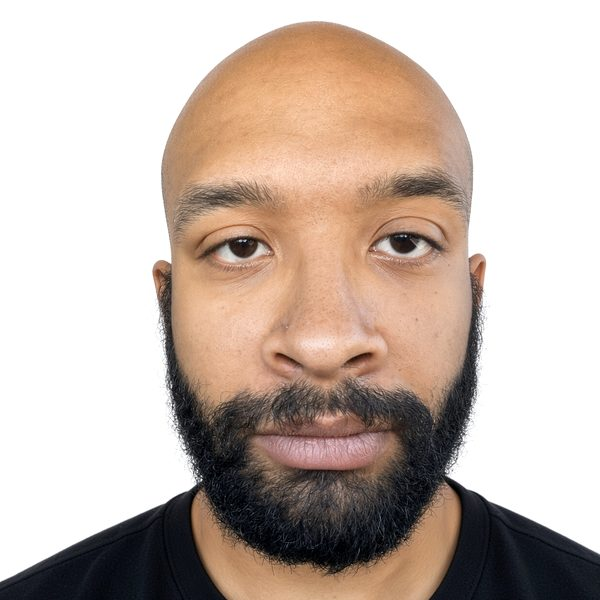
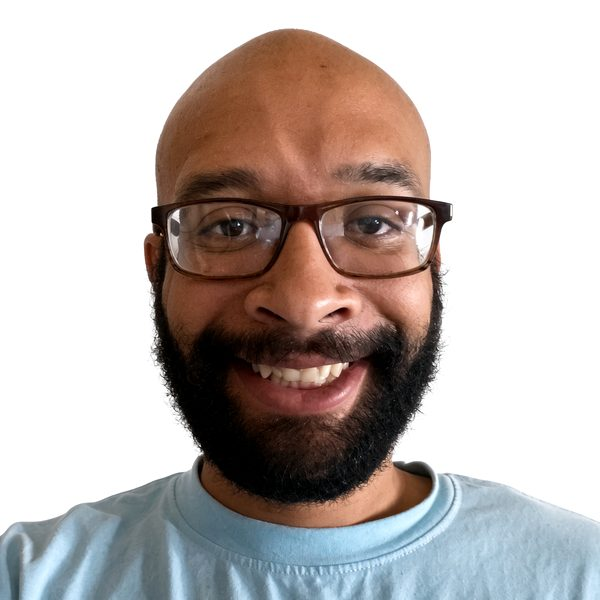
About: new founder photo (v2), cache-bust img src

diff --git a/index.html b/index.html
@@ -352,7 +352,7 @@
 
   <section id="about">
     <div class="wrap about">
-      <img src="kwaday.jpg" alt="Kwaday Corppetts, founder of MapTender" width="600" height="600" loading="lazy">
+      <img src="kwaday.jpg?v=2" alt="Kwaday Corppetts, founder of MapTender" width="600" height="600" loading="lazy">
       <div>
         <h2>About</h2>
         <h3 class="about-name">Kwaday Corppetts, founder</h3>
